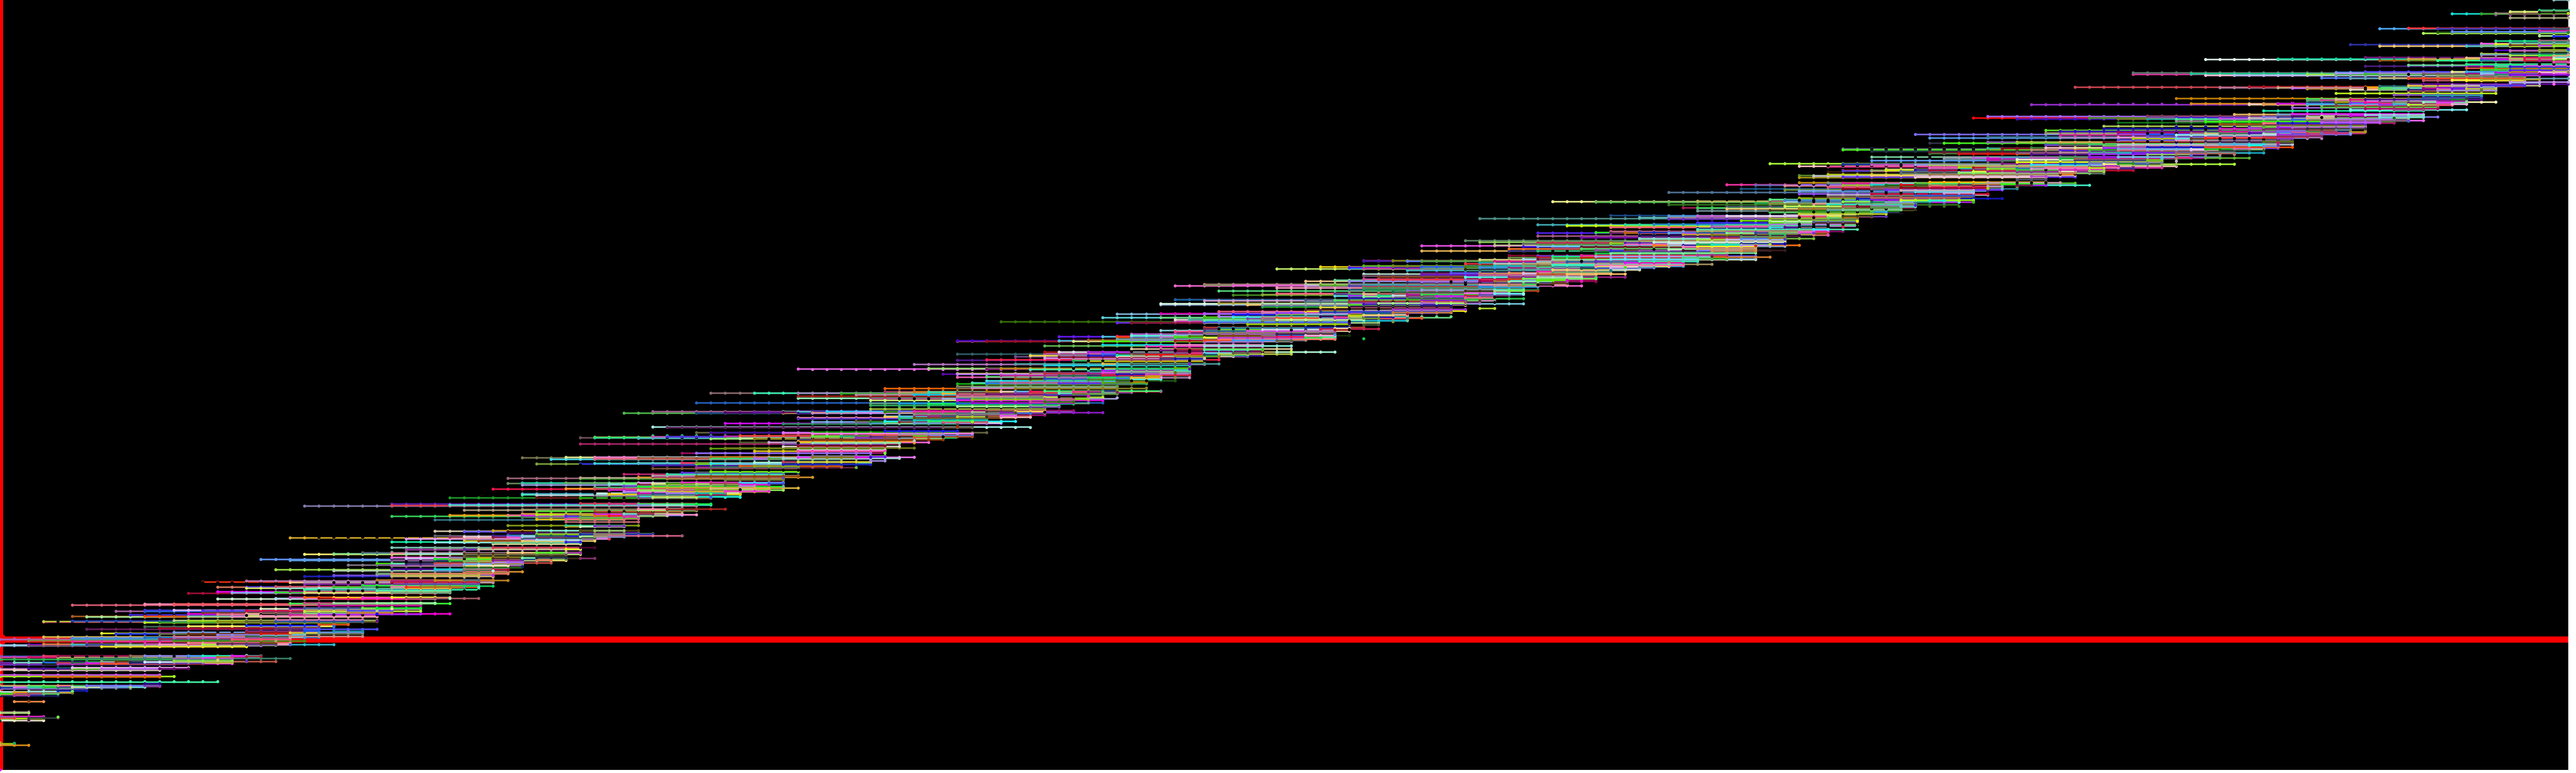
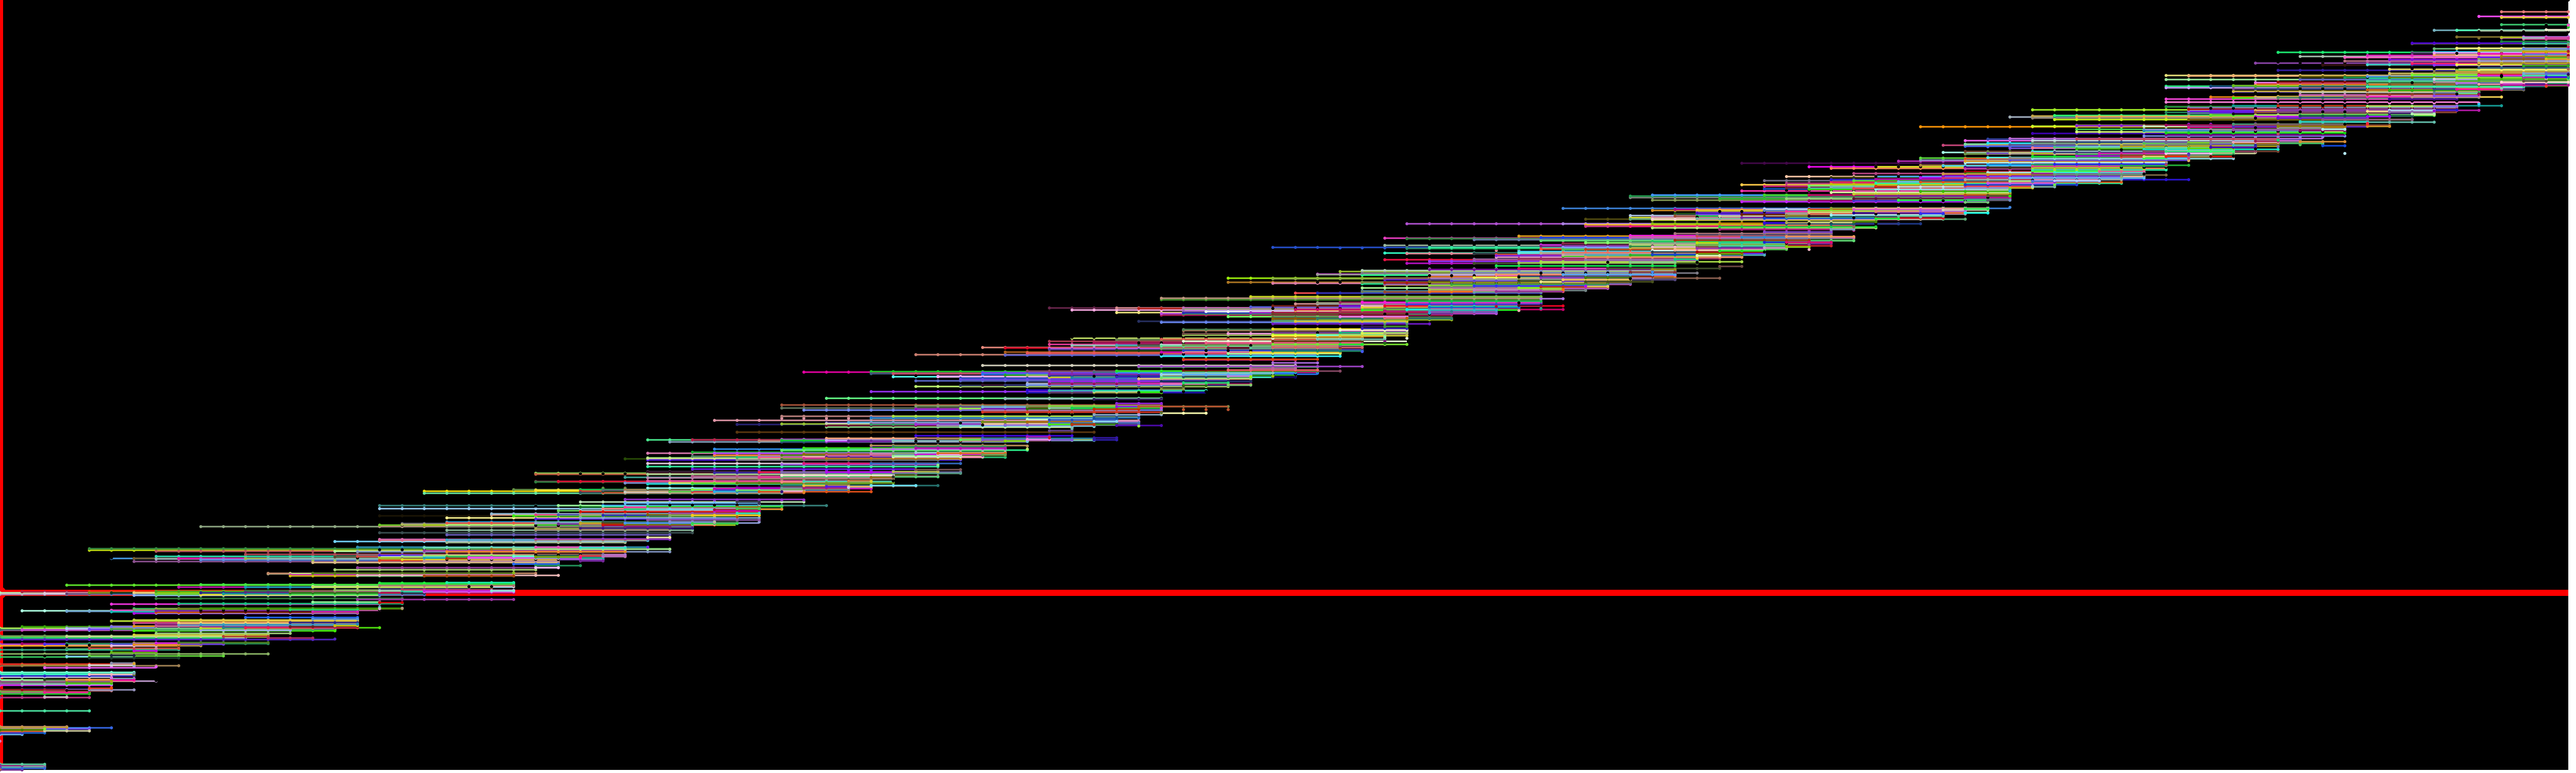
maybe

Changed region(s): [[0.0, 0.0, 1.0, 0.9987]]

diff --git a/index.js b/index.js
@@ -5,7 +5,7 @@ const active_forms = {};
 // "configuration string":{"stats":{}, "age":0}
 const max_forms = 125;
 const iterations = 100000000;
-const log_interval = 100; //interval to save a snapshot of active_forms in ./log/
+const log_interval = 1; //interval to save a snapshot of active_forms in ./log/
 fs.mkdirSync("../../../reactorsaves", { recursive: true });
 fs.mkdirSync("../../../reactorimagesaves", { recursive: true });
 fs.mkdirSync("../../../reactorvars/compweights", { recursive: true });
@@ -147,13 +147,15 @@ async function main() {
     for (ii = init_iteration; ii < iterations + 1; ii++) {
         const startitertime = Date.now();
         //Recording a set of samples for standard deviation calc
-        let highest = Object.keys(active_forms).sort((a, b) => {
-            return active_forms[a]["stats"]["output"]["avg"] - active_forms[b]["stats"]["output"]["avg"];
-        });
-        last_highest.push(active_forms[highest[highest.length - 1]]["stats"]["output"]["avg"]);
-        highest = null;
-        if (last_highest.length > max_last_highest) {
-            last_highest = last_highest.slice(1);
+        if (Object.keys(active_forms).length > 0) {
+            let highest = Object.keys(active_forms).sort((a, b) => {
+                return active_forms[a]["stats"]["output"]["avg"] - active_forms[b]["stats"]["output"]["avg"];
+            });
+            last_highest.push(active_forms[highest[highest.length - 1]]["stats"]["output"]["avg"]);
+            highest = null;
+            if (last_highest.length > max_last_highest) {
+                last_highest = last_highest.slice(1);
+            }
         }
         //Culling
         for (let j = 0; j < Math.ceil(Math.random() * max_forms); j++) {
@@ -167,10 +169,23 @@ async function main() {
             }
         }
         //Mutating
-        const permutationmult = (Math.random() + 1) * 2;
+        const permutationmult = (Math.random() + 1) * 10;
         const secondpermutationmult = (Date.now() % (set_parameters["zSize"] * set_parameters["xSize"] * 100) + 10 * Math.sqrt(set_parameters["xSize"] * set_parameters["zSize"])) / (10000);
         const current_stdev = getStandardDeviation(last_highest);
-        const thirdpermutationmult = Math.log(0.1 / ((current_stdev != 0 ? current_stdev : 0.0001) / last_highest[0]));
+        let numerator = (current_stdev == 0 ? 0.0001 : current_stdev);
+        let denominator = (last_highest.length == 0 ? 0.0001 : last_highest[0]);
+        const thirdpermutationmult = Math.log(1 / (numerator / denominator));
+
+        const productmult = Math.round(permutationmult * secondpermutationmult * thirdpermutationmult);
+        console.log(`Mutation multipliers:
+num:${numerator}
+den:${denominator}
+1= ${permutationmult}
+2= ${secondpermutationmult}
+3= ${thirdpermutationmult}
+Product= ${productmult}
+Stdev = ${current_stdev} (${Math.round(current_stdev / last_highest[0])}%)
+        `)
         let calltime = 0;
         while (Object.keys(active_forms).length < max_forms) {
             //repopulate
@@ -181,7 +196,7 @@ async function main() {
                 mutation_ancestor = Object.keys(active_forms)[Math.ceil(Math.random() * (Object.keys(active_forms).length - 1))];
             }
 
-            let new_conf_returns = make_permutation(mutation_ancestor, Math.round((Math.random() + 1) * 5 * permutationmult * secondpermutationmult * thirdpermutationmult));
+            let new_conf_returns = make_permutation(mutation_ancestor, Math.round(permutationmult * secondpermutationmult * thirdpermutationmult));
             let new_configuration = new_conf_returns[0];
             active_forms[new_configuration] = { "age": 0 };
             let thiscallstarttime = Date.now();
@@ -243,6 +258,9 @@ async function givemetheresultalready(data) {
 }
 
 function getStandardDeviation(array) { //https://stackoverflow.com/a/53577159
+    if (array.length == 0) {
+        return 0;
+    }
     const n = array.length
     const mean = array.reduce((a, b) => a + b) / n
     return Math.sqrt(array.map(x => Math.pow(x - mean, 2)).reduce((a, b) => a + b) / n)
